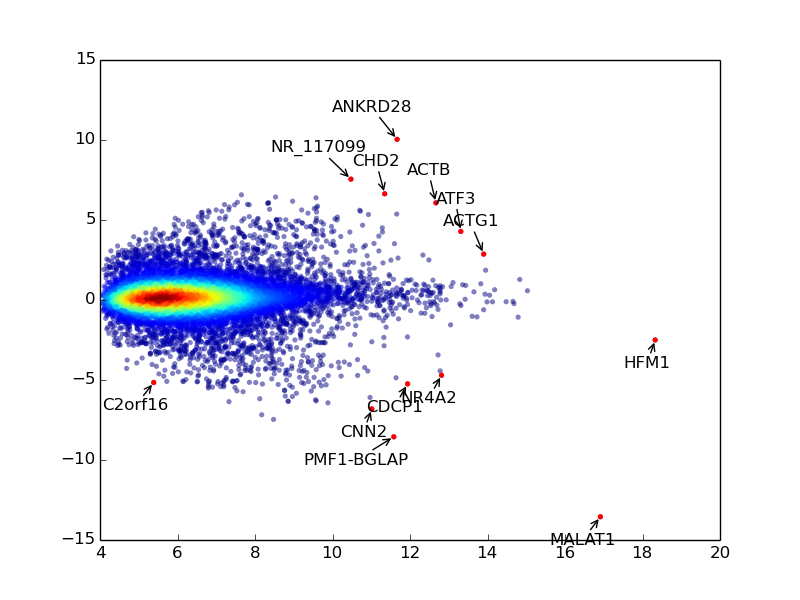
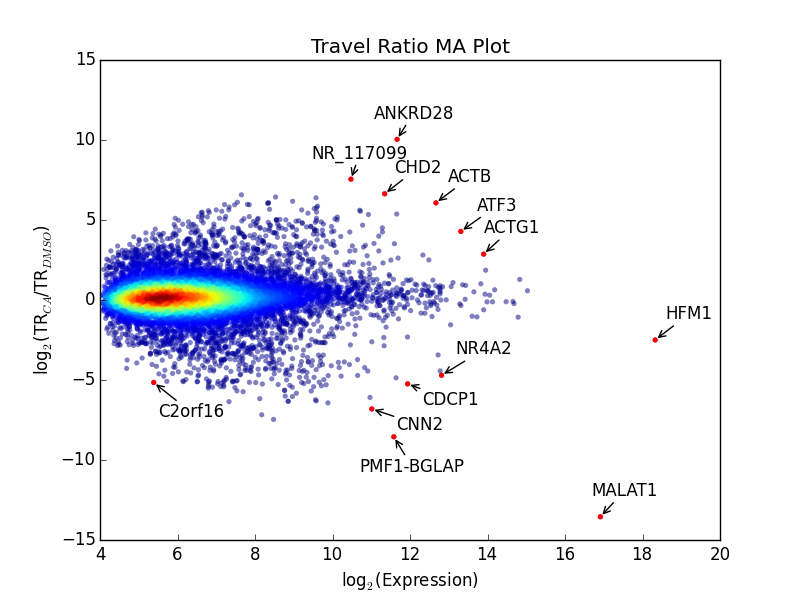
updates

diff --git a/src/tsv_analysis.py b/src/tsv_analysis.py
@@ -8,10 +8,14 @@ from scipy.stats import norm
 import numpy as np
 import math
 
-file1 = '/scratch/Shares/dowell/ENCODE/Rubin2016_genes_DMSO-1_K_models_MLE.tsv'
-file2 = '/scratch/Shares/dowell/ENCODE/Rubin2016_genes_CA-1_K_models_MLE.tsv'
-savedir = '/scratch/Users/joru1876/GROAnalysis/figures/'
-genes = '/scratch/Users/joru1876/genome_files/refGene.bed'
+#file1 = '/scratch/Shares/dowell/ENCODE/Rubin2016_genes_DMSO-1_K_models_MLE.tsv'
+#file2 = '/scratch/Shares/dowell/ENCODE/Rubin2016_genes_CA-1_K_models_MLE.tsv'
+#savedir = '/scratch/Users/joru1876/GROAnalysis/figures/'
+#genes = '/scratch/Users/joru1876/genome_files/refGene.bed'
+file1 = 'C:/cygwin64/home/Jonathan/Rubin2016_genes_DMSO-1_K_models_MLE.tsv'
+file2 = 'C:/cygwin64/home/Jonathan/Rubin2016_genes_CA-1_K_models_MLE.tsv'
+savedir = 'C:/cygwin64/home/Jonathan/GROAnalysis/figures/'
+genes = 'C:/cygwin64/home/Jonathan/refGene.bed'
 index = 6
 cut = 16
 cut1 = 50000
@@ -28,8 +32,8 @@ def gene_dict(genes):
     genedict = dict()
     with open(genes) as F1:
         for line in F1:
-            key,gene = line.strip().split()[3].split(';')[0:2]
-            genedict[key] = gene
+            key,gene,position = line.strip().split()[3].split(';')[0:3]
+            genedict[key] = (gene,position)
             
     return genedict
 
@@ -195,8 +199,9 @@ def run3(file1,file2):
                 if '>' in line[0]:
                     line = line.strip().split('|')
                     gene = line[0][1:]
+                    position = line[1]
                     fwd, rev = line[2].split(',')
-                    d1[gene] = [float(fwd), float(rev)]
+                    d1[gene] = [float(fwd), float(rev), position]
                 elif '1' in line[1]:
                     p = line.strip().split()[index].split(',')[0]
                     d1[gene].append(float(p))
@@ -207,8 +212,9 @@ def run3(file1,file2):
                 if '>' in line[0]:
                     line = line.strip().split('|')
                     gene = line[0][1:]
+                    position = line[1]
                     fwd, rev = line[2].split(',')
-                    d2[gene] = [float(fwd),float(rev)]
+                    d2[gene] = [float(fwd),float(rev), position]
                 elif '1' in line[1]:
                     p = line.strip().split()[index].split(',')[0]
                     d2[gene].append(float(p))
@@ -220,14 +226,14 @@ def run3(file1,file2):
     genelist = list()
     for key in d1:
         if key in d2:
-            if (d1[key][0] > cut or d1[key][1] > cut) and (d2[key][0] > cut or d2[key][1] > cut) and d2[key][2] > 0 and d1[key][2] > 0:
+            if (d1[key][0] > cut or d1[key][1] > cut) and (d2[key][0] > cut or d2[key][1] > cut) and d2[key][3] > 0 and d1[key][3] > 0:
                 #if d2[key][2]-d1[key][2] > .25:
                     #Y.append((key,d2[key][2]-d1[key][2]))
                     #Y.append(key)
-                if d2[key][2]-d1[key][2] < -.25:
+                if d2[key][3]-d1[key][3] < -.25:
                     #Z.append((key,d2[key][2]-d1[key][2]))
                     Z.append(key)
-                Y.append(math.log(d2[key][2]/d1[key][2],2))
+                Y.append(math.log(d2[key][3]/d1[key][3],2))
                 X.append(math.log((sum((d2[key][0],d2[key][1]))+sum((d1[key][0],d1[key][1])))/2.0,2))
                 genelist.append(key)
                 
@@ -254,6 +260,7 @@ def run3(file1,file2):
     Y2 = list()
     genedict = gene_dict(genes)
     siglist = list()
+    bedlist = list()
     for i in range(len(X)):
         if int((X[i] - m)*10) < len(X1):
             k = int((X[i] - m)*10)
@@ -267,11 +274,20 @@ def run3(file1,file2):
             X2.append(X[i])
             Y2.append(Y[i])
             if genelist[i] in genedict:
-                siglist.append(genedict[genelist[i]])
+                siglist.append(genedict[genelist[i]][0])
+                bedlist.append(genedict[genelist[i]][1])
             else:
                 siglist.append(genelist[i])
+                bedlist.append(d1[genelist[i]][2])
             
-    
+    outfile = open('C:/cygwin64/home/Jonathan/GROAnalysis/files/tsv_analysis.bed','w')
+    window = (200)
+    for item in bedlist:
+        item = item.split(':')
+        chrom = item[0]
+        start = str(int(item[1].split('-')[0])-window)
+        stop = str(int(item[1].split('-')[0])+window)
+        outfile.write(chrom + '\t' + start + '\t' + stop + '\n')
     F = plt.figure() 
     ax = F.add_subplot(111)
     xy = np.vstack([X,Y])
@@ -279,11 +295,21 @@ def run3(file1,file2):
     plt.scatter(X,Y,c=z,edgecolor="",alpha=0.5,s=14) 
     plt.scatter(X2,Y2,c='r',edgecolor="",s=14)
     ax.set_xlim([4,20])
+    ax.set_title('Travel Ratio MA Plot')
+    ax.set_ylabel('log$_2$(TR$_{CA}$/TR$_{DMSO}$)')
+    ax.set_xlabel('log$_2$(Expression)')
     ax.get_xaxis().tick_bottom()
     ax.get_yaxis().tick_left()
     for l in range(len(X2)):
-        textx = np.random.uniform(-40,40)
-        texty = np.random.uniform(-40,40)
+        textx = 40
+        texty = 15
+        if X2[l] < 16 and Y2[l] < 0:
+            textx = 50
+            texty = -15
+        if siglist[l] == 'NR4A2':
+            texty = 15
+        if siglist[l] == 'PMF1-BGLAP' or siglist[l] == 'C2orf16':
+            texty = -25
         ax.annotate(siglist[l], xy=(X2[l],Y2[l]), xytext=(textx, texty), ha='right',
                 textcoords='offset points', 
                 arrowprops=dict(arrowstyle='->', shrinkA=0))
